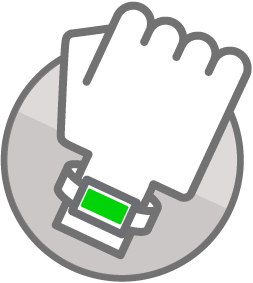
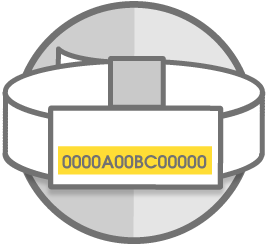
Redesign images

diff --git a/apps/customer_area/app/assets/stylesheets/glownet/customer/_forms.scss b/apps/customer_area/app/assets/stylesheets/glownet/customer/_forms.scss
@@ -138,10 +138,10 @@ button {
 }
 
 .wristband-image {
-  height: modules(4.5);
+  height: modules(7);
 
   @include min-screen($bp3) {
-    height: modules(8);
+    height: modules(7);
   }
 }
 
